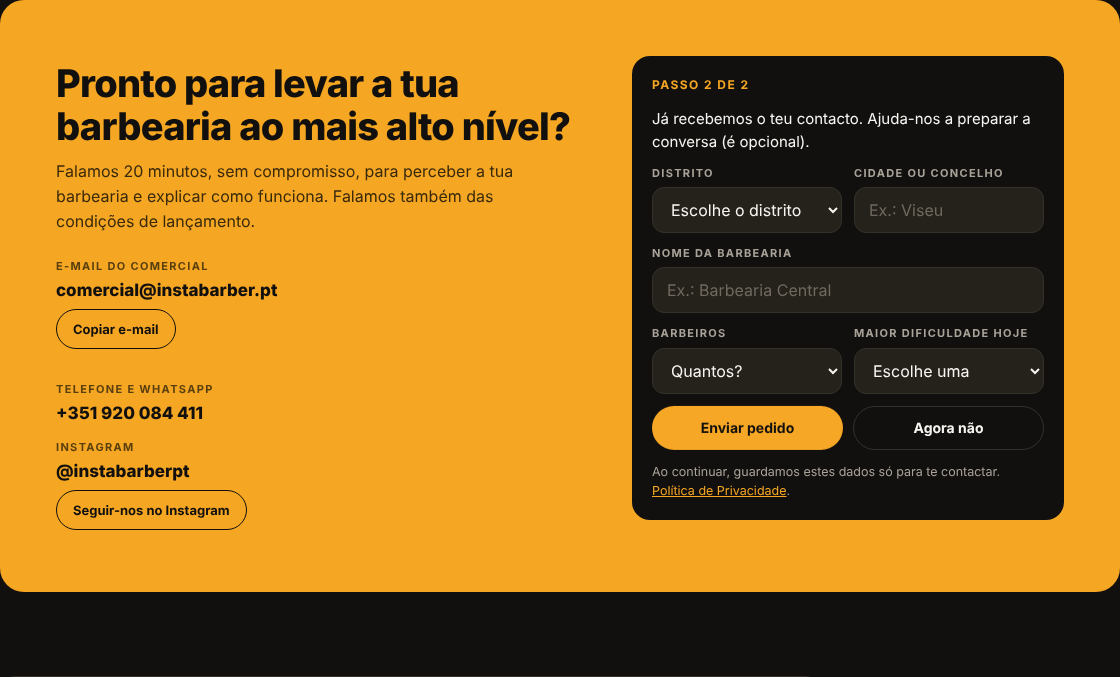
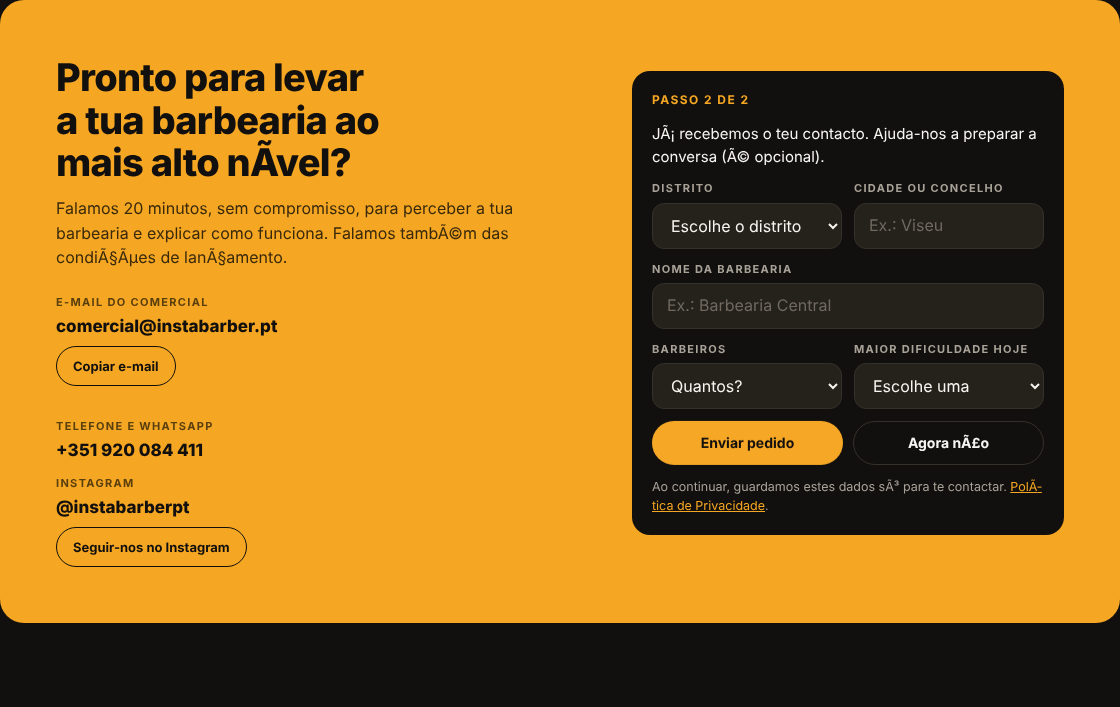
Landing: aba Gestor do barbeiro no lugar de Lembrete (D-97)
Claude-Session: https://claude.ai/code/session_01NzqEVh27JN9VYLXgeANEsa

diff --git a/landing/index.html b/landing/index.html
@@ -234,7 +234,6 @@ details .ans a { color: var(--gold); }
 #lab[data-tema="claro"] .mini { border-color: #C27A00; }
 #lab[data-tema="claro"] .mini:hover { background: var(--gold); color: var(--ink); }
 #lab[data-tema="claro"] .mini.ghost { border-color: var(--line); color: var(--mute); }
-#lab[data-tema="claro"] .phone { --ink-2: #1B1814; --ink-3: #25211B; --line: #34302A; --cream: #F7F5F1; --mute: #A9A298; --green: #3DBE8B; color: var(--cream); color-scheme: dark; }
 #lab[data-tema="claro"] .lost .msgx { background: var(--ink-3); }
 #lab[data-tema="claro"] .box-head .tag { font-size: 12px; color: var(--mute); border: 1px dashed var(--line); border-radius: 999px; padding: 4px 12px; }
 .tabs { display: flex; gap: 8px; flex-wrap: wrap; }
@@ -310,15 +309,6 @@ span.tag { max-width: 100%; white-space: normal; overflow-wrap: anywhere; }
 .cmp-row.save strong { color: var(--green); }
 .cmp-row strong em { display: block; font-style: normal; font-size: 12px; font-weight: 600; color: var(--mute); text-align: right; letter-spacing: 0; }
 .cmp .fine2 { padding-top: 14px; margin: 0; color: var(--mute); font-size: 13px; max-width: none; }
-.phone { max-width: 340px; width: 100%; justify-self: center; border: 2px solid var(--line); border-radius: 28px; background: var(--ink); overflow: hidden; }
-.phone-top { display: flex; align-items: center; gap: 10px; padding: 12px 16px; background: #14241D; border-bottom: 1px solid var(--line); }
-.phone-top b { display: block; font-size: 15px; }
-.phone-top small { color: var(--mute); font-size: 12px; }
-.avatar { width: 36px; height: 36px; border-radius: 50%; background: var(--gold); color: var(--ink); display: grid; place-items: center; font-weight: 800; flex: none; }
-.chat { padding: 18px 14px 26px; background: #0E1512; min-height: 220px; display: flex; align-items: flex-start; }
-.bubble { background: #1E3A2D; border-radius: 4px 16px 16px 16px; padding: 10px 14px 8px; max-width: 100%; display: grid; gap: 4px; }
-.bubble p { margin: 0; font-size: 15px; line-height: 1.45; color: var(--cream); overflow-wrap: anywhere; }
-.bubble small { justify-self: end; color: var(--mute); font-size: 11px; }
 .see { color: var(--gold); font-size: 13px; font-weight: 700; margin-left: 6px; white-space: nowrap; }
 .prow { display: grid; grid-template-columns: minmax(0, 1fr) auto auto; gap: 12px; align-items: center; padding: 10px 14px; border: 1px solid var(--line); border-radius: 12px; background: var(--ink-3); min-height: 56px; }
 .prow small { display: block; font-size: 13px; }
@@ -479,7 +469,7 @@ footer .links a:hover { color: var(--gold); }
           <button role="tab" id="t-agenda" aria-selected="true" aria-controls="p-agenda" type="button">Agenda</button>
           <button role="tab" id="t-fin" aria-selected="false" aria-controls="p-fin" type="button" tabindex="-1">Painel financeiro</button>
           <button role="tab" id="t-selos" aria-selected="false" aria-controls="p-selos" type="button" tabindex="-1">Selos</button>
-          <button role="tab" id="t-lemb" aria-selected="false" aria-controls="p-lemb" type="button" tabindex="-1">Lembrete</button>
+          <button role="tab" id="t-gest" aria-selected="false" aria-controls="p-gest" type="button" tabindex="-1">Gestor do barbeiro</button>
         </div>
         <div class="tema" role="group" aria-label="Cor de fundo da demonstração">
           <span class="tema-l">Muda o fundo</span>
@@ -517,19 +507,24 @@ footer .links a:hover { color: var(--gold); }
         <p class="hintx">Todo o dinheiro é registado, nunca cobrado pelo sistema. Não é documento fiscal.</p>
       </div>
 
-      <div class="pane" id="p-lemb" role="tabpanel" aria-labelledby="t-lemb" hidden>
-        <p class="hintx">Na agenda, um toque abre o WhatsApp do cliente com o lembrete já escrito. Vê como chega ao telemóvel dele.</p>
+      <div class="pane" id="p-gest" role="tabpanel" aria-labelledby="t-gest" hidden>
+        <p class="hintx">É isto que o Miguel vê ao entrar: a agenda dele, o que faturou, os objetivos e os clientes dele. Cada barbeiro só vê os seus números.</p>
         <div class="row2">
-          <div class="phone" aria-label="Mensagem no telemóvel do cliente">
-            <div class="phone-top"><span class="avatar">B</span><div><b>Barbearia Central</b><small>mensagem</small></div></div>
-            <div class="chat"><div class="bubble"><p id="l-txt"></p><small id="l-hora"></small></div></div>
-          </div>
-          <div class="stats">
-            <p class="hintx">Quanto falta para a marcação?</p>
-            <div class="svc" id="l-opts"></div>
-            <p class="hintx">O sistema prepara a mensagem e abre a conversa. Tu confirmas o envio, sem custo por mensagem.</p>
-          </div>
+          <div class="stat"><span class="k">Objetivo de hoje</span><b>78 %</b><div class="bar" aria-hidden="true"><i style="width: 78%"></i></div><span>186 € de 240 €. Faltam 54 €.</span></div>
+          <div class="stat"><span class="k">Objetivo do mês</span><b>78 %</b><div class="bar" aria-hidden="true"><i style="width: 78%"></i></div><span>3120 € de 4000 €. Faltam 880 €.</span></div>
         </div>
+        <div class="stats3">
+          <div class="stat"><span class="k">Faturado hoje</span><b>186 €</b><span>9 serviços feitos</span></div>
+          <div class="stat"><span class="k">A minha percentagem do mês</span><b>1404 €</b><span>45 % do faturado, a acertar no fim do mês</span></div>
+          <div class="stat"><span class="k">Próximo cliente</span><b>Tiago M.</b><span>Corte e barba, daqui a 12 minutos</span></div>
+        </div>
+        <p class="hintx">Os meus clientes</p>
+        <div class="stats3">
+          <div class="stat"><span class="k">Regulares</span><b>38</b><span>vêm dentro do habitual</span></div>
+          <div class="stat"><span class="k">Em risco</span><b>5</b><span>ainda vais a tempo de os segurar</span></div>
+          <div class="stat"><span class="k">Perdidos</span><b>3</b><span>há mais de 45 dias sem vir</span></div>
+        </div>
+        <p class="hintx">O dono vê a barbearia inteira, num painel à parte. Todo o dinheiro é registado, nunca cobrado pelo sistema.</p>
       </div>
 
       <div class="pane" id="p-selos" role="tabpanel" aria-labelledby="t-selos" hidden>
@@ -686,7 +681,7 @@ footer .links a:hover { color: var(--gold); }
     </div>
     <div class="all">
       <div class="grp"><p class="k">Operação do dia</p><ul><li><span class="t">Agenda e marcações, sem sobreposições</span></li><li><span class="t">Gestão de clientes</span></li><li><span class="t">Ficha técnica de cada cliente</span></li><li><span class="t">Política de faltas</span></li><li><span class="t">Painel individual por barbeiro</span></li><li><span class="t">Objetivos por barbeiro <span class=pro>Pro</span></span></li><li><span class="t">Vários barbeiros na mesma conta <span class=pro>Pro</span></span></li><li><span class="t">Entrada por QR code na loja <span class=pro>Pro</span></span></li></ul></div>
-      <div class="grp"><p class="k">Presença e marcação online</p><ul><li><span class="t">Página pública com a marca da barbearia</span></li><li><span class="t">Lembrete de marcação por WhatsApp <a class="see" href="#demo" data-tab="lemb">Ver exemplo</a></span></li><li><span class="t">Confirmação por e-mail</span></li><li><span class="t">Portfólio de cada barbeiro</span></li><li><span class="t">Pedido de avaliação no Google <span class=pro>Pro</span></span></li></ul></div>
+      <div class="grp"><p class="k">Presença e marcação online</p><ul><li><span class="t">Página pública com a marca da barbearia</span></li><li><span class="t">Lembrete de marcação por WhatsApp</span></li><li><span class="t">Confirmação por e-mail</span></li><li><span class="t">Portfólio de cada barbeiro</span></li><li><span class="t">Pedido de avaliação no Google <span class=pro>Pro</span></span></li></ul></div>
       <div class="grp"><p class="k">Clientes que voltam</p><ul><li><span class="t">Radar de clientes perdidos, com o valor em euros</span></li><li><span class="t">Mensagem de recuperação com um clique <span class=pro>Pro</span></span></li><li><span class="t">Lista de aniversariantes</span></li>
 <li><span class="t">Mensagem de aniversário com um clique <span class=pro>Pro</span></span></li><li><span class="t">Fidelização por selos digitais</span></li><li><span class="t">Marcação rápida: repetir o último serviço</span></li><li><span class="t">Fila de espera <span class=pro>Pro</span></span></li></ul></div>
       <div class="grp"><p class="k">Dinheiro e contas</p><ul><li><span class="t">Painel financeiro com objetivos</span></li><li><span class="t">Contas a pagar</span></li><li><span class="t">Painel de gestão do dono</span></li><li><span class="t">Percentagens e acertos por barbeiro</span></li><li><span class="t">Relatórios por barbeiro</span></li><li><span class="t">Relatório mensal em PDF</span></li></ul></div>
@@ -1006,7 +1001,7 @@ footer .links a:hover { color: var(--gold); }
   var eur2 = function (n) { return new Intl.NumberFormat("pt-PT", { style: "currency", currency: "EUR" }).format(n); };
 
   /* separadores */
-  var tabs = ["agenda", "fin", "selos", "lemb"];
+  var tabs = ["agenda", "fin", "selos", "gest"];
   function abrirTab(nome) {
     tabs.forEach(function (n) {
       var on = n === nome;
@@ -1107,22 +1102,6 @@ footer .links a:hover { color: var(--gold); }
   });
 
 
-  /* lembrete: a hora e a data calculam-se sempre no fuso de Lisboa */
-  var LISBOA = "Europe/Lisbon";
-  function hm(d) { return new Intl.DateTimeFormat("pt-PT", { timeZone: LISBOA, hour: "2-digit", minute: "2-digit", hour12: false }).format(d); }
-  function dia(d) { return new Intl.DateTimeFormat("pt-PT", { timeZone: LISBOA, weekday: "long", day: "numeric", month: "long" }).format(d); }
-  var lemb = 60;
-  function pintarLemb() {
-    var agora = new Date(), alvo = new Date(Math.ceil((agora.getTime() + lemb * 60000) / 300000) * 300000);
-    var quanto = lemb < 60 ? lemb + " minutos" : lemb === 60 ? "1 hora" : (lemb / 60) + " horas";
-    $("l-txt").innerHTML = "Olá Tiago! Lembrete da Barbearia Central: tens <b>Corte e barba</b> marcado para hoje, " + dia(alvo) + ", às <b>" + hm(alvo) + "</b>, daqui a " + quanto + ", com o Miguel. Se não puderes vir, avisa-nos por aqui. Até já!";
-    $("l-hora").textContent = hm(agora);
-    var h = ""; [30, 60, 120].forEach(function (m) { h += '<button class="mini' + (m === lemb ? '' : ' ghost') + '" type="button" data-l="' + m + '">' + (m < 60 ? m + " minutos" : m === 60 ? "1 hora" : (m / 60) + " horas") + '</button>'; });
-    $("l-opts").innerHTML = h;
-  }
-  $("l-opts").addEventListener("click", function (e) { var b = e.target.closest("button"); if (b && b.dataset.l) { lemb = +b.dataset.l; pintarLemb(); } });
-  pintarLemb();
-  Array.prototype.forEach.call(document.querySelectorAll("[data-tab]"), function (a) { a.addEventListener("click", function () { abrirTab(a.dataset.tab); }); });
 
   /* mini loja */
   var PROD = [

diff --git a/landing/publicar/index.html b/landing/publicar/index.html
@@ -250,7 +250,6 @@ details .ans a { color: var(--gold); }
 #lab[data-tema="claro"] .mini { border-color: #C27A00; }
 #lab[data-tema="claro"] .mini:hover { background: var(--gold); color: var(--ink); }
 #lab[data-tema="claro"] .mini.ghost { border-color: var(--line); color: var(--mute); }
-#lab[data-tema="claro"] .phone { --ink-2: #1B1814; --ink-3: #25211B; --line: #34302A; --cream: #F7F5F1; --mute: #A9A298; --green: #3DBE8B; color: var(--cream); color-scheme: dark; }
 #lab[data-tema="claro"] .lost .msgx { background: var(--ink-3); }
 #lab[data-tema="claro"] .box-head .tag { font-size: 12px; color: var(--mute); border: 1px dashed var(--line); border-radius: 999px; padding: 4px 12px; }
 .tabs { display: flex; gap: 8px; flex-wrap: wrap; }
@@ -326,15 +325,6 @@ span.tag { max-width: 100%; white-space: normal; overflow-wrap: anywhere; }
 .cmp-row.save strong { color: var(--green); }
 .cmp-row strong em { display: block; font-style: normal; font-size: 12px; font-weight: 600; color: var(--mute); text-align: right; letter-spacing: 0; }
 .cmp .fine2 { padding-top: 14px; margin: 0; color: var(--mute); font-size: 13px; max-width: none; }
-.phone { max-width: 340px; width: 100%; justify-self: center; border: 2px solid var(--line); border-radius: 28px; background: var(--ink); overflow: hidden; }
-.phone-top { display: flex; align-items: center; gap: 10px; padding: 12px 16px; background: #14241D; border-bottom: 1px solid var(--line); }
-.phone-top b { display: block; font-size: 15px; }
-.phone-top small { color: var(--mute); font-size: 12px; }
-.avatar { width: 36px; height: 36px; border-radius: 50%; background: var(--gold); color: var(--ink); display: grid; place-items: center; font-weight: 800; flex: none; }
-.chat { padding: 18px 14px 26px; background: #0E1512; min-height: 220px; display: flex; align-items: flex-start; }
-.bubble { background: #1E3A2D; border-radius: 4px 16px 16px 16px; padding: 10px 14px 8px; max-width: 100%; display: grid; gap: 4px; }
-.bubble p { margin: 0; font-size: 15px; line-height: 1.45; color: var(--cream); overflow-wrap: anywhere; }
-.bubble small { justify-self: end; color: var(--mute); font-size: 11px; }
 .see { color: var(--gold); font-size: 13px; font-weight: 700; margin-left: 6px; white-space: nowrap; }
 .prow { display: grid; grid-template-columns: minmax(0, 1fr) auto auto; gap: 12px; align-items: center; padding: 10px 14px; border: 1px solid var(--line); border-radius: 12px; background: var(--ink-3); min-height: 56px; }
 .prow small { display: block; font-size: 13px; }
@@ -498,7 +488,7 @@ footer .links a:hover { color: var(--gold); }
           <button role="tab" id="t-agenda" aria-selected="true" aria-controls="p-agenda" type="button">Agenda</button>
           <button role="tab" id="t-fin" aria-selected="false" aria-controls="p-fin" type="button" tabindex="-1">Painel financeiro</button>
           <button role="tab" id="t-selos" aria-selected="false" aria-controls="p-selos" type="button" tabindex="-1">Selos</button>
-          <button role="tab" id="t-lemb" aria-selected="false" aria-controls="p-lemb" type="button" tabindex="-1">Lembrete</button>
+          <button role="tab" id="t-gest" aria-selected="false" aria-controls="p-gest" type="button" tabindex="-1">Gestor do barbeiro</button>
         </div>
         <div class="tema" role="group" aria-label="Cor de fundo da demonstração">
           <span class="tema-l">Muda o fundo</span>
@@ -536,19 +526,24 @@ footer .links a:hover { color: var(--gold); }
         <p class="hintx">Todo o dinheiro é registado, nunca cobrado pelo sistema. Não é documento fiscal.</p>
       </div>
 
-      <div class="pane" id="p-lemb" role="tabpanel" aria-labelledby="t-lemb" hidden>
-        <p class="hintx">Na agenda, um toque abre o WhatsApp do cliente com o lembrete já escrito. Vê como chega ao telemóvel dele.</p>
+      <div class="pane" id="p-gest" role="tabpanel" aria-labelledby="t-gest" hidden>
+        <p class="hintx">É isto que o Miguel vê ao entrar: a agenda dele, o que faturou, os objetivos e os clientes dele. Cada barbeiro só vê os seus números.</p>
         <div class="row2">
-          <div class="phone" aria-label="Mensagem no telemóvel do cliente">
-            <div class="phone-top"><span class="avatar">B</span><div><b>Barbearia Central</b><small>mensagem</small></div></div>
-            <div class="chat"><div class="bubble"><p id="l-txt"></p><small id="l-hora"></small></div></div>
-          </div>
-          <div class="stats">
-            <p class="hintx">Quanto falta para a marcação?</p>
-            <div class="svc" id="l-opts"></div>
-            <p class="hintx">O sistema prepara a mensagem e abre a conversa. Tu confirmas o envio, sem custo por mensagem.</p>
-          </div>
+          <div class="stat"><span class="k">Objetivo de hoje</span><b>78 %</b><div class="bar" aria-hidden="true"><i style="width: 78%"></i></div><span>186 € de 240 €. Faltam 54 €.</span></div>
+          <div class="stat"><span class="k">Objetivo do mês</span><b>78 %</b><div class="bar" aria-hidden="true"><i style="width: 78%"></i></div><span>3120 € de 4000 €. Faltam 880 €.</span></div>
         </div>
+        <div class="stats3">
+          <div class="stat"><span class="k">Faturado hoje</span><b>186 €</b><span>9 serviços feitos</span></div>
+          <div class="stat"><span class="k">A minha percentagem do mês</span><b>1404 €</b><span>45 % do faturado, a acertar no fim do mês</span></div>
+          <div class="stat"><span class="k">Próximo cliente</span><b>Tiago M.</b><span>Corte e barba, daqui a 12 minutos</span></div>
+        </div>
+        <p class="hintx">Os meus clientes</p>
+        <div class="stats3">
+          <div class="stat"><span class="k">Regulares</span><b>38</b><span>vêm dentro do habitual</span></div>
+          <div class="stat"><span class="k">Em risco</span><b>5</b><span>ainda vais a tempo de os segurar</span></div>
+          <div class="stat"><span class="k">Perdidos</span><b>3</b><span>há mais de 45 dias sem vir</span></div>
+        </div>
+        <p class="hintx">O dono vê a barbearia inteira, num painel à parte. Todo o dinheiro é registado, nunca cobrado pelo sistema.</p>
       </div>
 
       <div class="pane" id="p-selos" role="tabpanel" aria-labelledby="t-selos" hidden>
@@ -705,7 +700,7 @@ footer .links a:hover { color: var(--gold); }
     </div>
     <div class="all">
       <div class="grp"><p class="k">Operação do dia</p><ul><li><span class="t">Agenda e marcações, sem sobreposições</span></li><li><span class="t">Gestão de clientes</span></li><li><span class="t">Ficha técnica de cada cliente</span></li><li><span class="t">Política de faltas</span></li><li><span class="t">Painel individual por barbeiro</span></li><li><span class="t">Objetivos por barbeiro <span class=pro>Pro</span></span></li><li><span class="t">Vários barbeiros na mesma conta <span class=pro>Pro</span></span></li><li><span class="t">Entrada por QR code na loja <span class=pro>Pro</span></span></li></ul></div>
-      <div class="grp"><p class="k">Presença e marcação online</p><ul><li><span class="t">Página pública com a marca da barbearia</span></li><li><span class="t">Lembrete de marcação por WhatsApp <a class="see" href="#demo" data-tab="lemb">Ver exemplo</a></span></li><li><span class="t">Confirmação por e-mail</span></li><li><span class="t">Portfólio de cada barbeiro</span></li><li><span class="t">Pedido de avaliação no Google <span class=pro>Pro</span></span></li></ul></div>
+      <div class="grp"><p class="k">Presença e marcação online</p><ul><li><span class="t">Página pública com a marca da barbearia</span></li><li><span class="t">Lembrete de marcação por WhatsApp</span></li><li><span class="t">Confirmação por e-mail</span></li><li><span class="t">Portfólio de cada barbeiro</span></li><li><span class="t">Pedido de avaliação no Google <span class=pro>Pro</span></span></li></ul></div>
       <div class="grp"><p class="k">Clientes que voltam</p><ul><li><span class="t">Radar de clientes perdidos, com o valor em euros</span></li><li><span class="t">Mensagem de recuperação com um clique <span class=pro>Pro</span></span></li><li><span class="t">Lista de aniversariantes</span></li>
 <li><span class="t">Mensagem de aniversário com um clique <span class=pro>Pro</span></span></li><li><span class="t">Fidelização por selos digitais</span></li><li><span class="t">Marcação rápida: repetir o último serviço</span></li><li><span class="t">Fila de espera <span class=pro>Pro</span></span></li></ul></div>
       <div class="grp"><p class="k">Dinheiro e contas</p><ul><li><span class="t">Painel financeiro com objetivos</span></li><li><span class="t">Contas a pagar</span></li><li><span class="t">Painel de gestão do dono</span></li><li><span class="t">Percentagens e acertos por barbeiro</span></li><li><span class="t">Relatórios por barbeiro</span></li><li><span class="t">Relatório mensal em PDF</span></li></ul></div>
@@ -1025,7 +1020,7 @@ footer .links a:hover { color: var(--gold); }
   var eur2 = function (n) { return new Intl.NumberFormat("pt-PT", { style: "currency", currency: "EUR" }).format(n); };
 
   /* separadores */
-  var tabs = ["agenda", "fin", "selos", "lemb"];
+  var tabs = ["agenda", "fin", "selos", "gest"];
   function abrirTab(nome) {
     tabs.forEach(function (n) {
       var on = n === nome;
@@ -1126,22 +1121,6 @@ footer .links a:hover { color: var(--gold); }
   });
 
 
-  /* lembrete: a hora e a data calculam-se sempre no fuso de Lisboa */
-  var LISBOA = "Europe/Lisbon";
-  function hm(d) { return new Intl.DateTimeFormat("pt-PT", { timeZone: LISBOA, hour: "2-digit", minute: "2-digit", hour12: false }).format(d); }
-  function dia(d) { return new Intl.DateTimeFormat("pt-PT", { timeZone: LISBOA, weekday: "long", day: "numeric", month: "long" }).format(d); }
-  var lemb = 60;
-  function pintarLemb() {
-    var agora = new Date(), alvo = new Date(Math.ceil((agora.getTime() + lemb * 60000) / 300000) * 300000);
-    var quanto = lemb < 60 ? lemb + " minutos" : lemb === 60 ? "1 hora" : (lemb / 60) + " horas";
-    $("l-txt").innerHTML = "Olá Tiago! Lembrete da Barbearia Central: tens <b>Corte e barba</b> marcado para hoje, " + dia(alvo) + ", às <b>" + hm(alvo) + "</b>, daqui a " + quanto + ", com o Miguel. Se não puderes vir, avisa-nos por aqui. Até já!";
-    $("l-hora").textContent = hm(agora);
-    var h = ""; [30, 60, 120].forEach(function (m) { h += '<button class="mini' + (m === lemb ? '' : ' ghost') + '" type="button" data-l="' + m + '">' + (m < 60 ? m + " minutos" : m === 60 ? "1 hora" : (m / 60) + " horas") + '</button>'; });
-    $("l-opts").innerHTML = h;
-  }
-  $("l-opts").addEventListener("click", function (e) { var b = e.target.closest("button"); if (b && b.dataset.l) { lemb = +b.dataset.l; pintarLemb(); } });
-  pintarLemb();
-  Array.prototype.forEach.call(document.querySelectorAll("[data-tab]"), function (a) { a.addEventListener("click", function () { abrirTab(a.dataset.tab); }); });
 
   /* mini loja */
   var PROD = [

diff --git a/DECISOES.md b/DECISOES.md
@@ -446,3 +446,7 @@ O módulo da calculadora passa a ter fundo claro, barra de aplicação no topo (
 - Na aba Agenda da demonstração, cada cliente marcado mostra uma contagem decrescente («Começa em 29:58», e «Começa em 1 h 16 min» quando falta mais de uma hora) e um botão verde «Avisar cliente».
 - O botão segue a regra do WhatsApp (CLAUDE.md, regra 7): primeiro prepara a mensagem, depois «Confirmei o envio», e só então fica «Cliente avisado». Nada se dá como enviado sem confirmação.
 - As horas da demonstração partem da hora atual de Lisboa (primeiro cliente daqui a cerca de 30 minutos), para a contagem parecer sempre «ao vivo».
+
+## D-97 · 22/10/2026 · Demonstração: «Gestor do barbeiro» no lugar de «Lembrete»
+- A aba «Lembrete» (redundante com o botão «Avisar cliente» da Agenda) passou a «Gestor do barbeiro»: o resumo que o barbeiro vê ao entrar (objetivo de hoje e do mês, faturado hoje, percentagem do mês, próximo cliente e os clientes dele: regulares, em risco e perdidos). Valores de exemplo, estáticos.
+- Removidos o código e o CSS do lembrete e a ligação «Ver exemplo» da lista de funcionalidades que apontava para ele.
